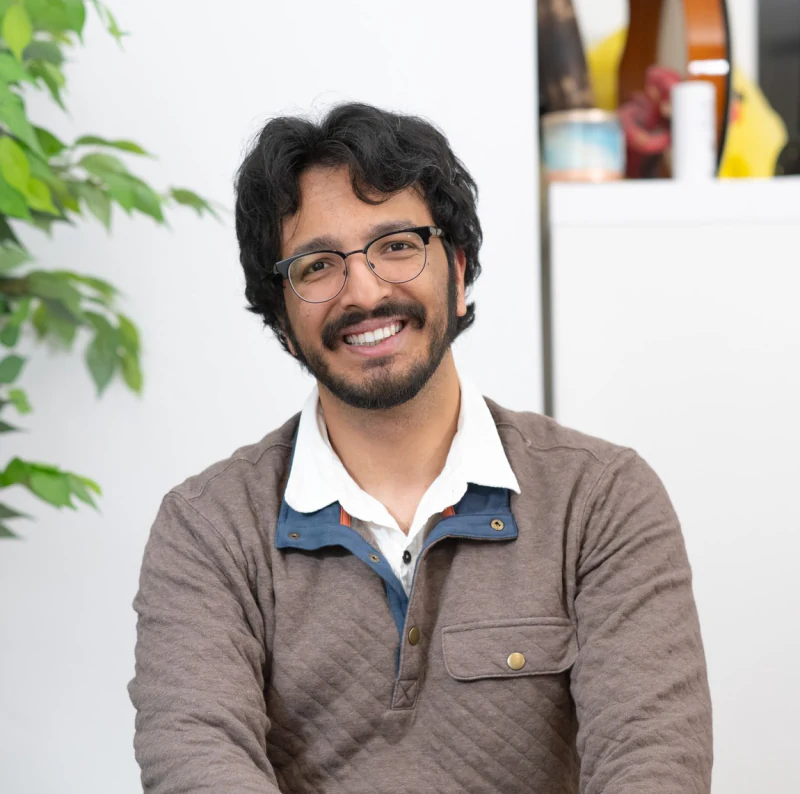
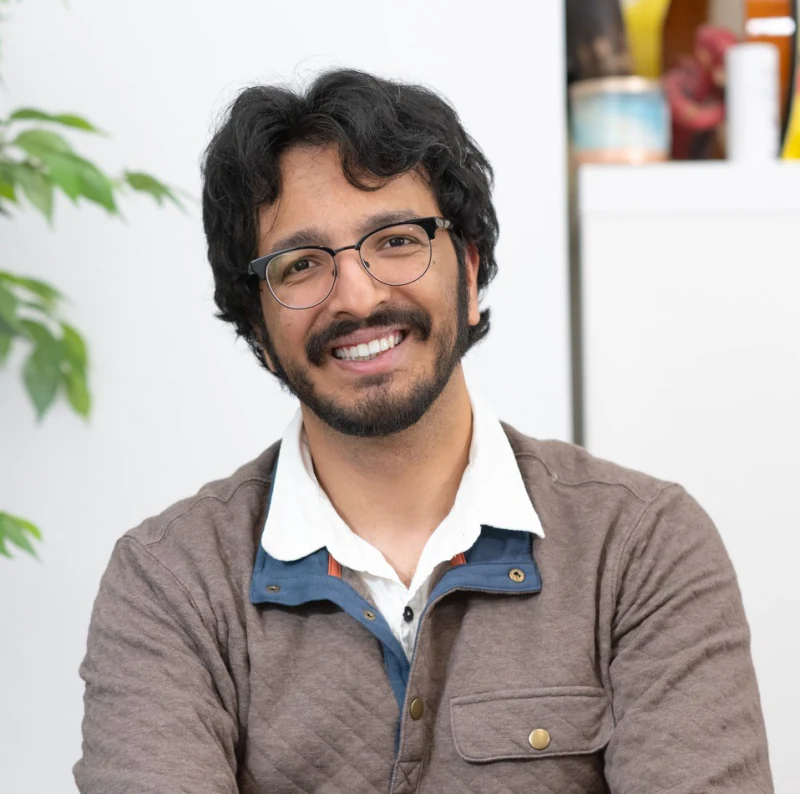
Hero photo: closer crop, less headroom; cap width on iPad

diff --git a/style.css b/style.css
@@ -86,6 +86,9 @@ a { color: inherit; }
   width: 100%; height: min(48vh, 480px, calc((100vw - 32px) * 1.3));
   object-fit: cover; object-position: 50% 38%;
   border-radius: 20px;
+  /* The photo is cropped close (head to hands), so on wide stacked layouts
+     (iPad) cap the width; a very wide frame would cut off the top of the head. */
+  max-width: 520px; margin: 0 auto; display: block;
 }
 .hero-copy { margin-top: 24px; font-weight: 600; letter-spacing: -0.04em; }
 .hero-line { font-size: clamp(18px, 2.4vw, 24px); font-weight: 600; line-height: 1.3; }
@@ -127,7 +130,7 @@ a { color: inherit; }
     display: grid; grid-template-columns: 1.1fr 1fr; align-items: center;
     column-gap: 48px; padding-top: 24px;
   }
-  .hero-photo { height: min(calc(100vh - 120px), 640px, 60vw); }
+  .hero-photo { height: min(calc(100vh - 120px), 640px, 60vw); max-width: none; }
   .hero-copy { margin-top: 0; }
   .hero-word { --w: 347px; }
   }

diff --git a/script.js b/script.js
@@ -35,11 +35,11 @@ document.getElementById("year").textContent = new Date().getFullYear();
 (() => {
   const img = document.querySelector(".hero-photo");
   if (!img) return;
-  const EYE_Y = 0.335; // eye line as a fraction of the (cropped) photo's height
+  const EYE_Y = 0.333; // eye line as a fraction of the (cropped) photo's height
 
   function frame() {
     const W = img.clientWidth, H = img.clientHeight;
-    const iw = img.naturalWidth || 1150, ih = img.naturalHeight || 1140;
+    const iw = img.naturalWidth || 958, ih = img.naturalHeight || 950;
     if (!W || !H) return;
     const scale = Math.max(W / iw, H / ih);   // object-fit: cover
     const overflow = ih * scale - H;          // how much photo is cropped vertically

diff --git a/index.html b/index.html
@@ -43,7 +43,7 @@
 
   <main>
     <section id="hero" class="hero">
-      <img class="hero-photo" src="assets/hero-1150.webp" srcset="assets/hero-800.webp 800w, assets/hero-1150.webp 1150w" sizes="(min-width: 1000px) min(45vw, 590px), 100vw" fetchpriority="high" alt="Portrait of Magesh Sridhar">
+      <img class="hero-photo" src="assets/hero-960.webp" srcset="assets/hero-800.webp 800w, assets/hero-960.webp 958w" sizes="(min-width: 1000px) min(45vw, 590px), 100vw" fetchpriority="high" alt="Portrait of Magesh Sridhar">
       <div class="hero-text">
       <div class="hero-copy">
         <p class="hero-line">Hello there, I'm <strong>Magesh Sridhar</strong>, an</p>
